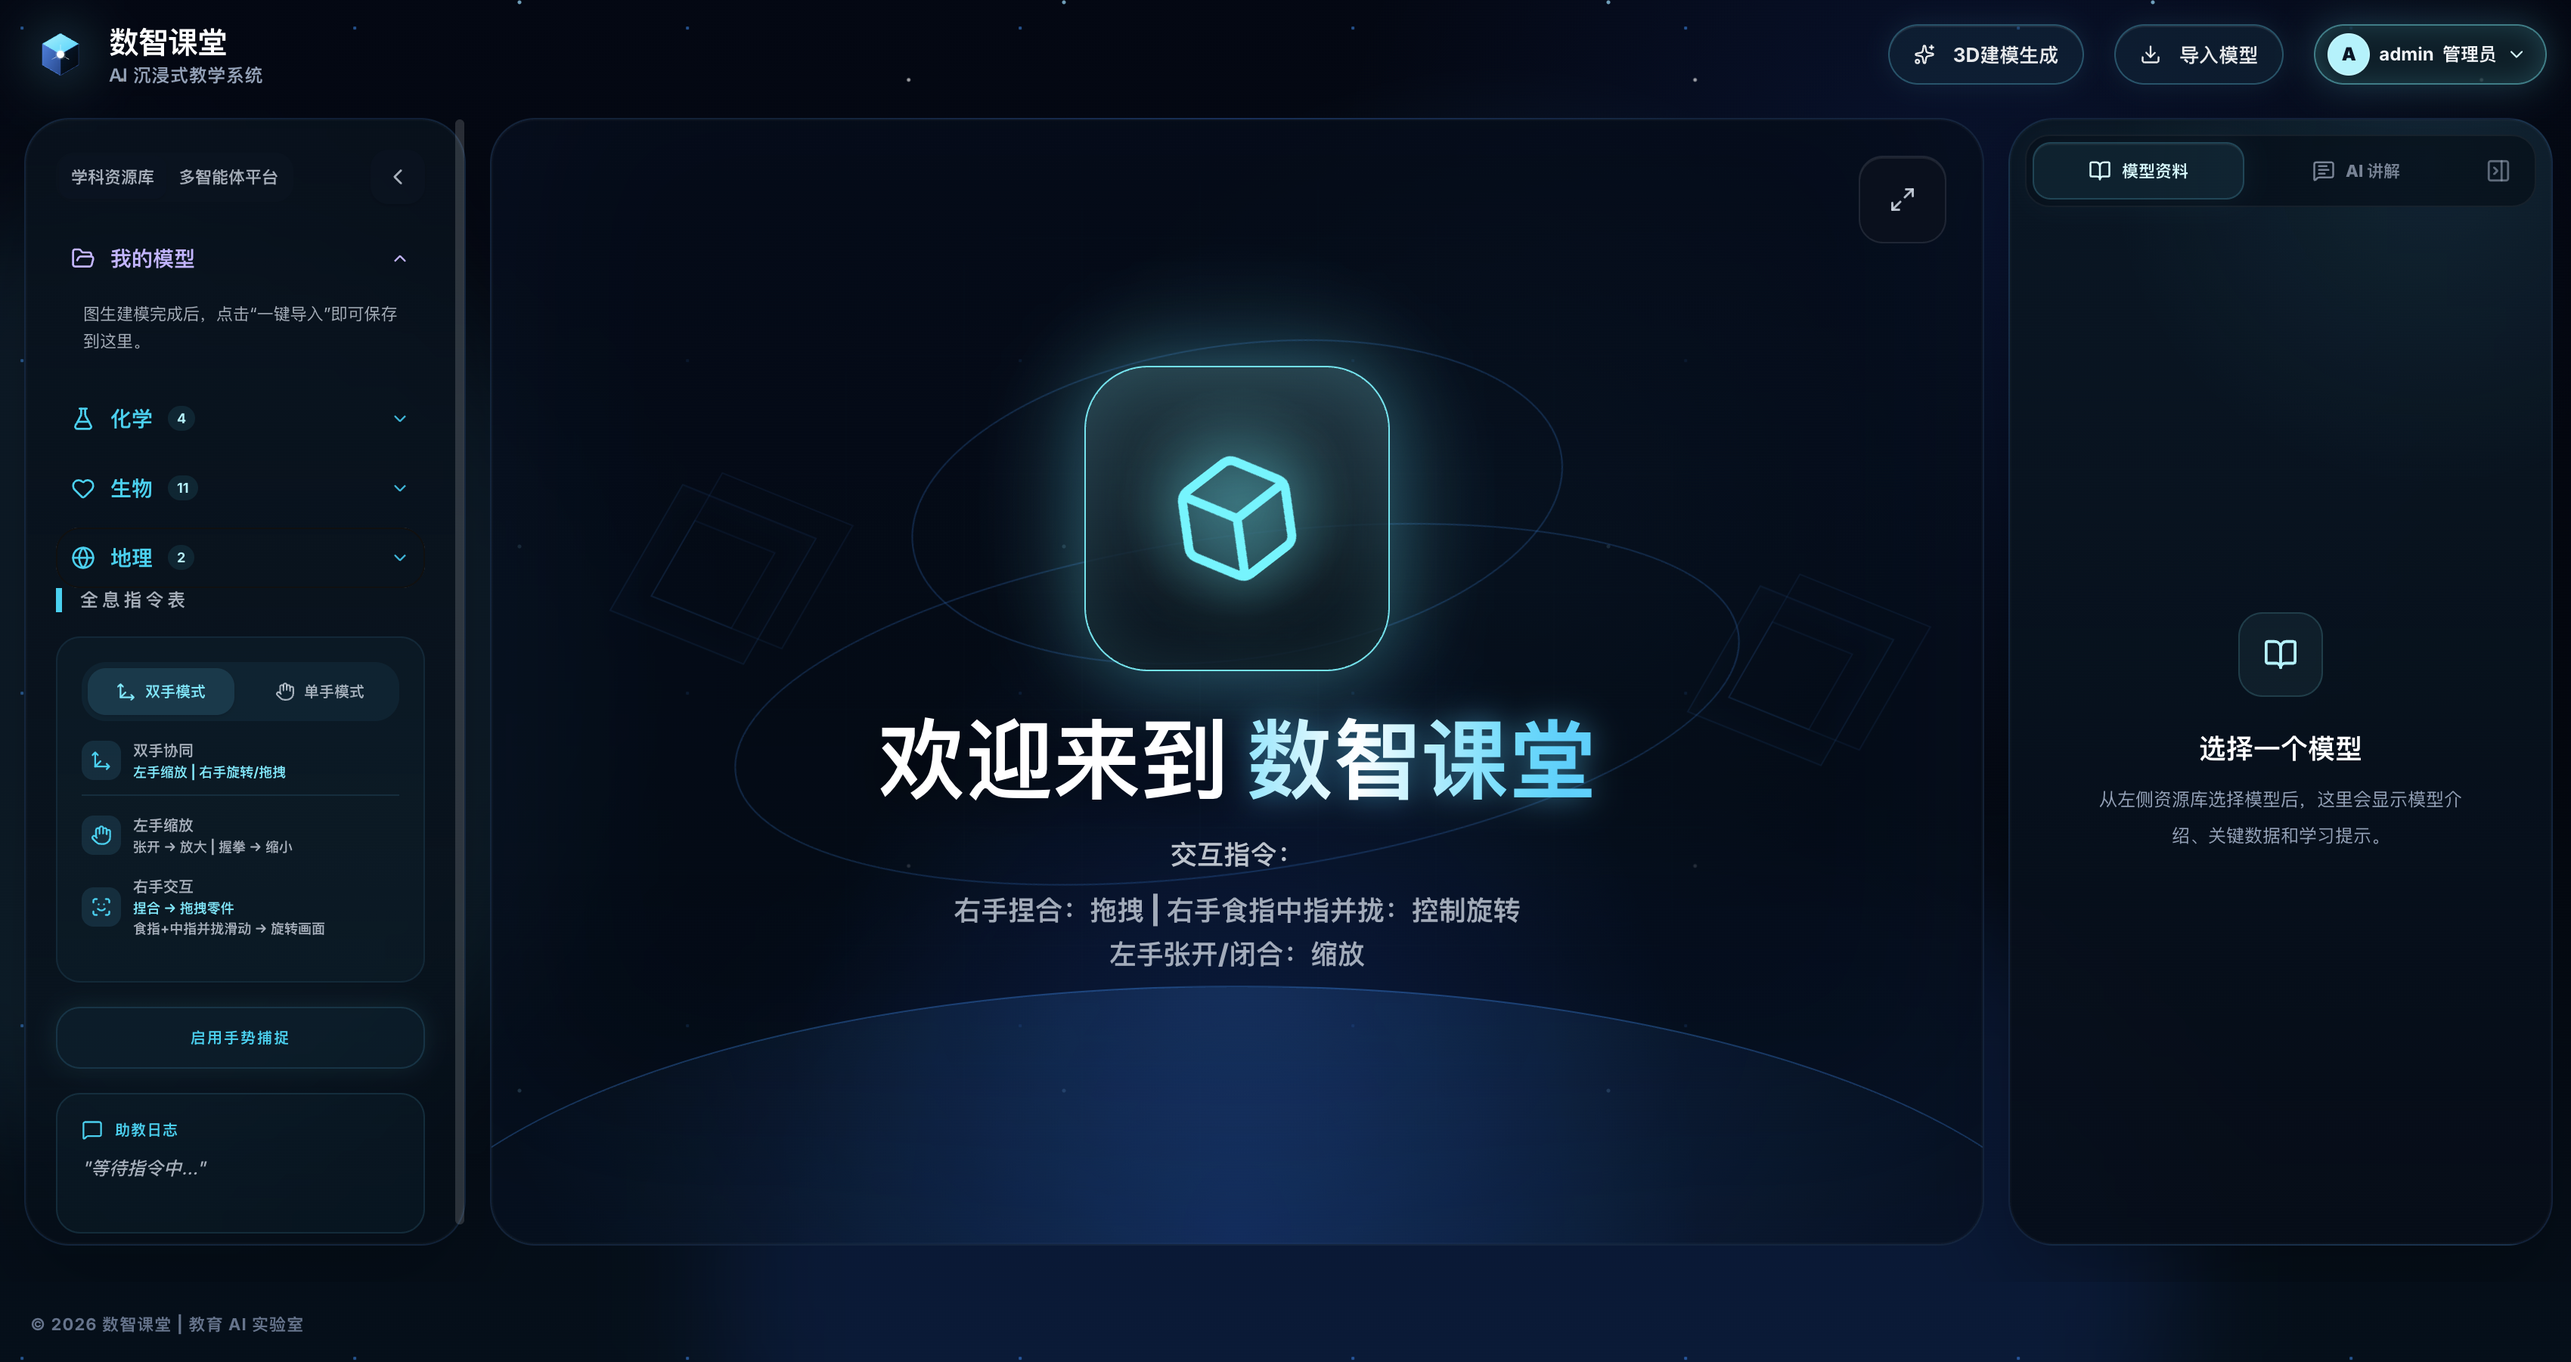
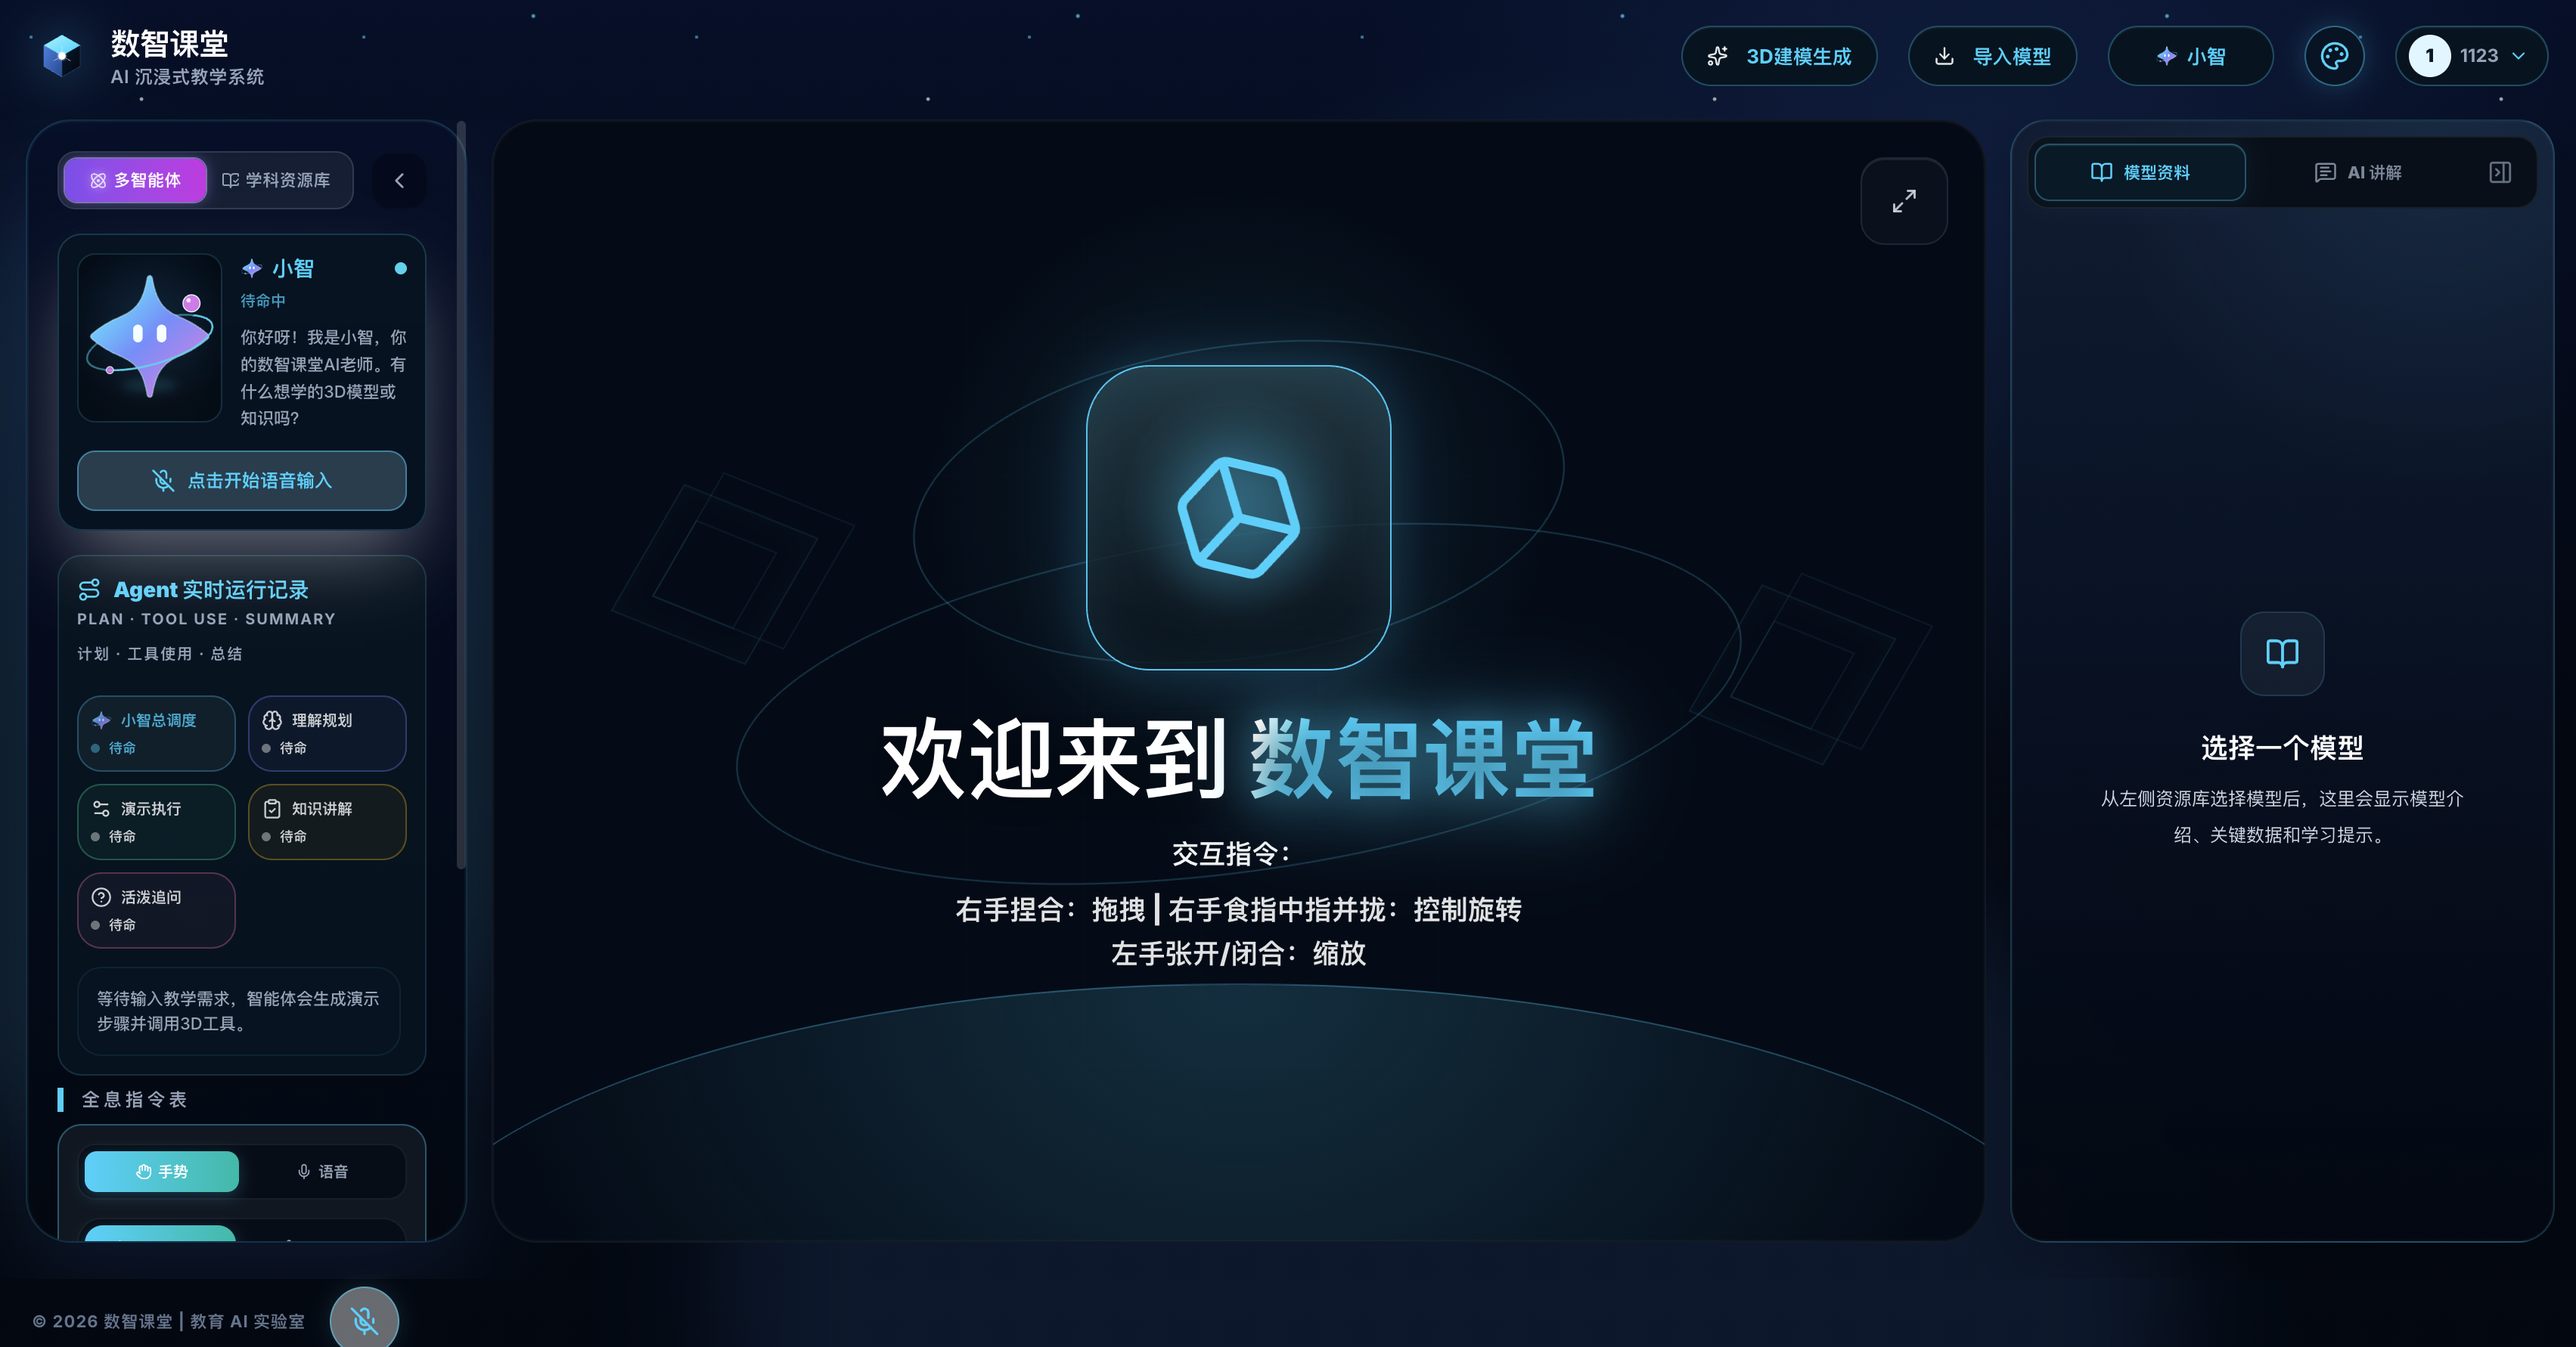
更新 README 配图和界面细节

diff --git a/Dashboard.tsx b/Dashboard.tsx
@@ -4000,7 +4000,7 @@ const App: React.FC<DashboardProps> = ({ playIntro = true, initialLocalModelId, 
             </div>
           )}
 
-          {activeContent === 'model' && modelUrl && !quizMode && !detailPanelVisible && !isStageFullscreen && !isStageAppFullscreen && (
+          {!quizMode && !followUpQuestion && !detailPanelOpen && !isStageFullscreen && !isStageAppFullscreen && (
             <button
               type="button"
               onClick={() => {
